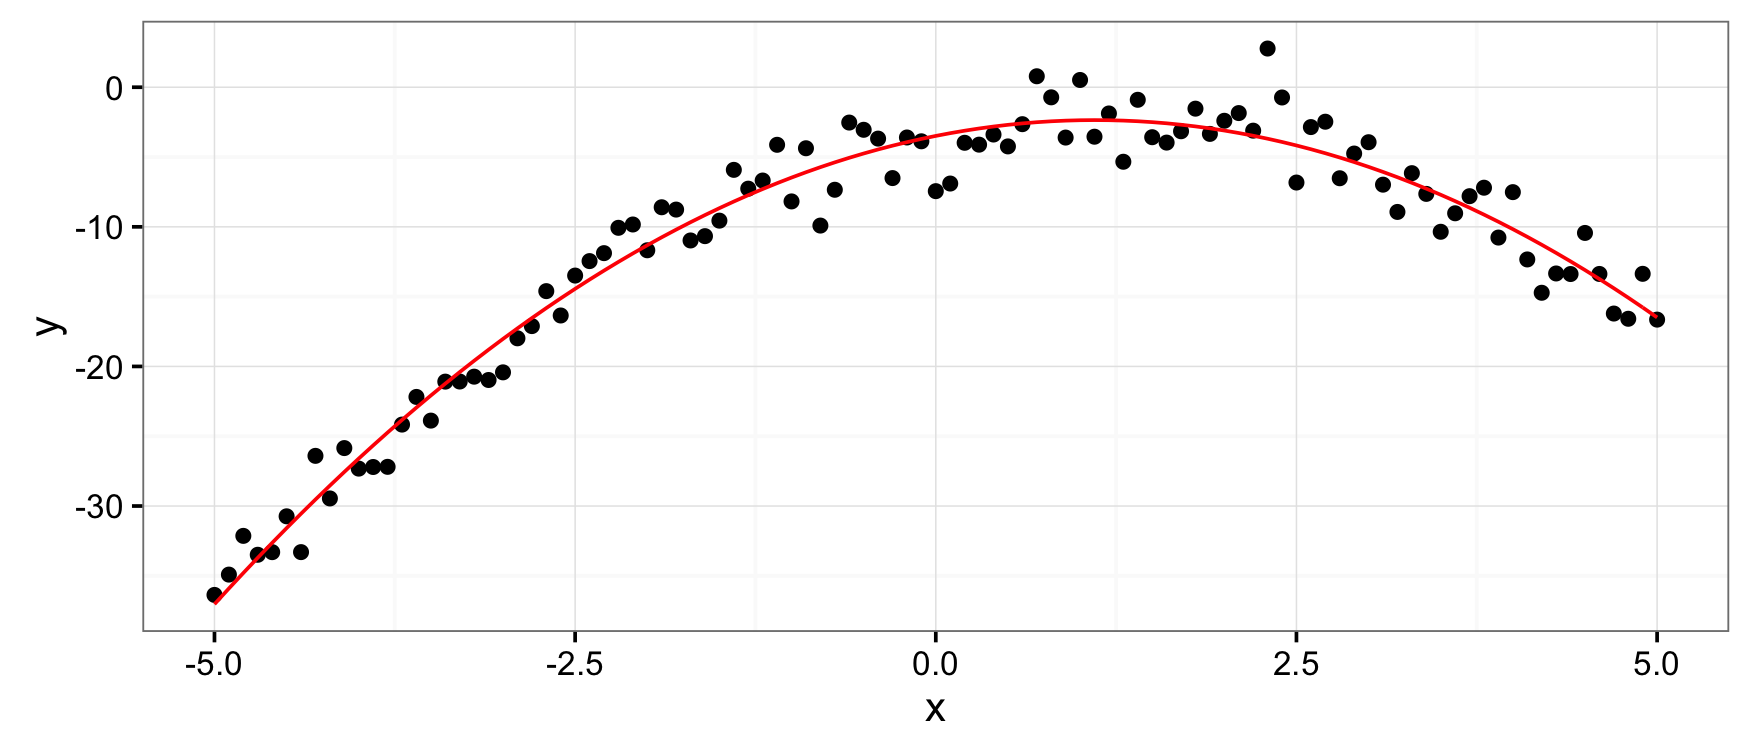
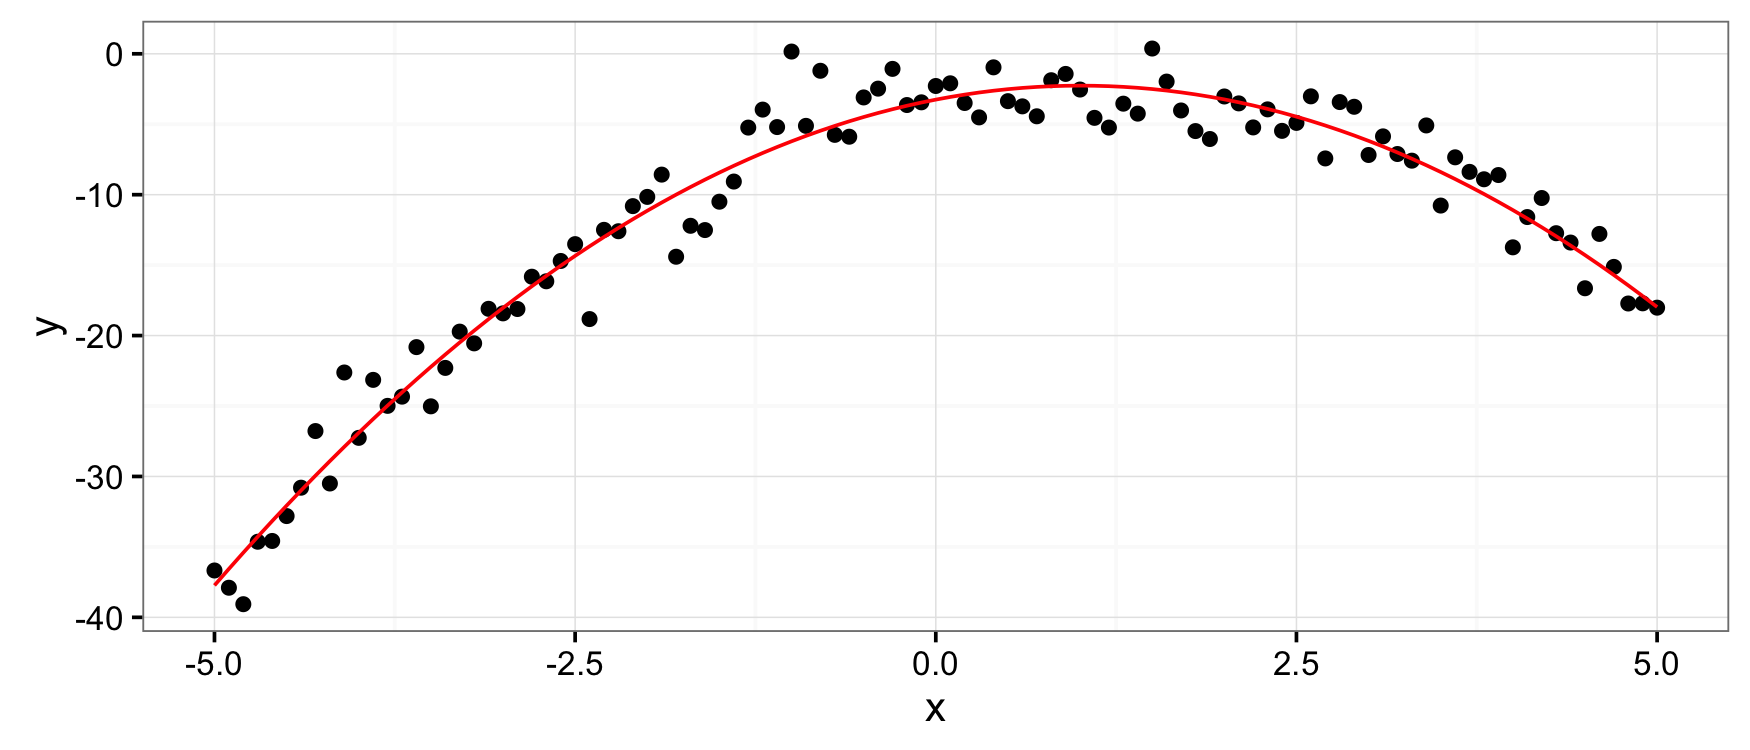
include simplified vectorized as.function capabilities to readme special polynomial plots

diff --git a/README.md b/README.md
@@ -263,8 +263,9 @@ s <- seq(-1, 1, length.out = 201); N <- 5
 #> 8 x^4  -  8 x^2  +  1
 #> 16 x^5  -  20 x^3  +  5 x
 
-df <- sapply(s, as.function(chebPolys)) %>% t %>% cbind(s, .) %>% as.data.frame
-#> f(x)
+
+df <- as.function(chebPolys)(s) %>% cbind(s, .) %>% as.data.frame
+#> f(.) with . = (x)
 names(df) <- c("x", paste0("T_", 0:N))
 mdf <- melt(df, id = "x")
 qplot(x, value, data = mdf, geom = "path", color = variable)
@@ -284,8 +285,8 @@ s <- seq(-1, 1, length.out = 201); N <- 5
 #> 144.375 x^4  -  78.75 x^2  +  4.375
 #> 375.375 x^5  -  288.75 x^3  +  39.375 x
  
-df <- sapply(s, as.function(jacPolys)) %>% t %>% cbind(s, .) %>% as.data.frame
-#> f(x)
+df <- as.function(jacPolys)(s) %>% cbind(s, .) %>% as.data.frame
+#> f(.) with . = (x)
 names(df) <- c("x", paste0("P_", 0:N))
 mdf <- melt(df, id = "x")
 qplot(x, value, data = mdf, geom = "path", color = variable) +
@@ -306,8 +307,8 @@ s <- seq(-1, 1, length.out = 201); N <- 5
 #> 4.375 x^4  -  3.75 x^2  +  0.375
 #> 7.875 x^5  -  8.75 x^3  +  1.875 x
  
-df <- sapply(s, as.function(legPolys)) %>% t %>% cbind(s, .) %>% as.data.frame
-#> f(x)
+df <- as.function(legPolys)(s) %>% cbind(s, .) %>% as.data.frame
+#> f(.) with . = (x)
 names(df) <- c("x", paste0("P_", 0:N))
 mdf <- melt(df, id = "x")
 qplot(x, value, data = mdf, geom = "path", color = variable)
@@ -327,8 +328,8 @@ s <- seq(-3, 3, length.out = 201); N <- 5
 #> x^4  -  6 x^2  +  3
 #> x^5  -  10 x^3  +  15 x
 
-df <- sapply(s, as.function(hermPolys)) %>% t %>% cbind(s, .) %>% as.data.frame
-#> f(x)
+df <- as.function(hermPolys)(s) %>% cbind(s, .) %>% as.data.frame
+#> f(.) with . = (x)
 names(df) <- c("x", paste0("He_", 0:N))
 mdf <- melt(df, id = "x")
 qplot(x, value, data = mdf, geom = "path", color = variable)
@@ -348,8 +349,8 @@ s <- seq(-5, 20, length.out = 201); N <- 5
 #> 0.04166667 x^4  -  0.6666667 x^3  +  3 x^2  -  4 x  +  1
 #> -0.008333333 x^5  +  0.2083333 x^4  -  1.666667 x^3  +  5 x^2  -  5 x  +  1
 
-df <- sapply(s, as.function(lagPolys)) %>% t %>% cbind(s, .) %>% as.data.frame
-#> f(x)
+df <- as.function(lagPolys)(s) %>% cbind(s, .) %>% as.data.frame
+#> f(.) with . = (x)
 names(df) <- c("x", paste0("L_", 0:N))
 mdf <- melt(df, id = "x")
 qplot(x, value, data = mdf, geom = "path", color = variable) +
@@ -380,8 +381,8 @@ N <- 5 # number of bernstein polynomials to plot
 #> -5 x^5  +  5 x^4
 #> x^5
 
-df <- sapply(s, as.function(bernPolys)) %>% t %>% cbind(s, .) %>% as.data.frame
-#> f(x)
+df <- as.function(bernPolys)(s) %>% cbind(s, .) %>% as.data.frame
+#> f(.) with . = (x)
 names(df) <- c("x", paste0("B_", 0:N))
 mdf <- melt(df, id = "x")
 qplot(x, value, data = mdf, geom = "path", color = variable)
@@ -423,7 +424,7 @@ points <- data.frame(x = c(-1,-2,2,1), y = c(0,1,1,0))
 And viewing them is just as easy:
 
 ``` r
-df <- sapply(s, as.function(bezPolys)) %>% t %>% as.data.frame
+df <- as.function(bezPolys)(s) %>% as.data.frame
 
 ggplot(aes(x = x, y = y), data = df) + 
   geom_point(data = points, color = "red", size = 4) +
@@ -440,7 +441,7 @@ points <- data.frame(x = c(1,-2,2,-1), y = c(0,1,1,0))
 (bezPolys <- bezier(points))
 #> -14 t^3  +  21 t^2  -  9 t  +  1
 #> -3 t^2  +  3 t
-df <- sapply(s, as.function(bezPolys, weights = c(1,5,5,1))) %>% t %>% as.data.frame
+df <- as.function(bezPolys, weights = c(1,5,5,1))(s) %>% as.data.frame
 
 ggplot(aes(x = x, y = y), data = df) + 
   geom_point(data = points, color = "red", size = 4) +
@@ -473,7 +474,7 @@ df$y <- with(df, -x^2 + 2*x - 3 + rnorm(n, 0, 2))
 
 mod <- lm(y ~ x + I(x^2), data = df)
 (p <- mod %>% as.mpoly %>% round)
-#> 2.054 x  -  0.931 x^2  -  3.487
+#> 1.976 x  -  0.984 x^2  -  3.252
 qplot(x, y, data = df) +
   stat_function(fun = as.function(p), colour = 'red')
 #> f(x)
